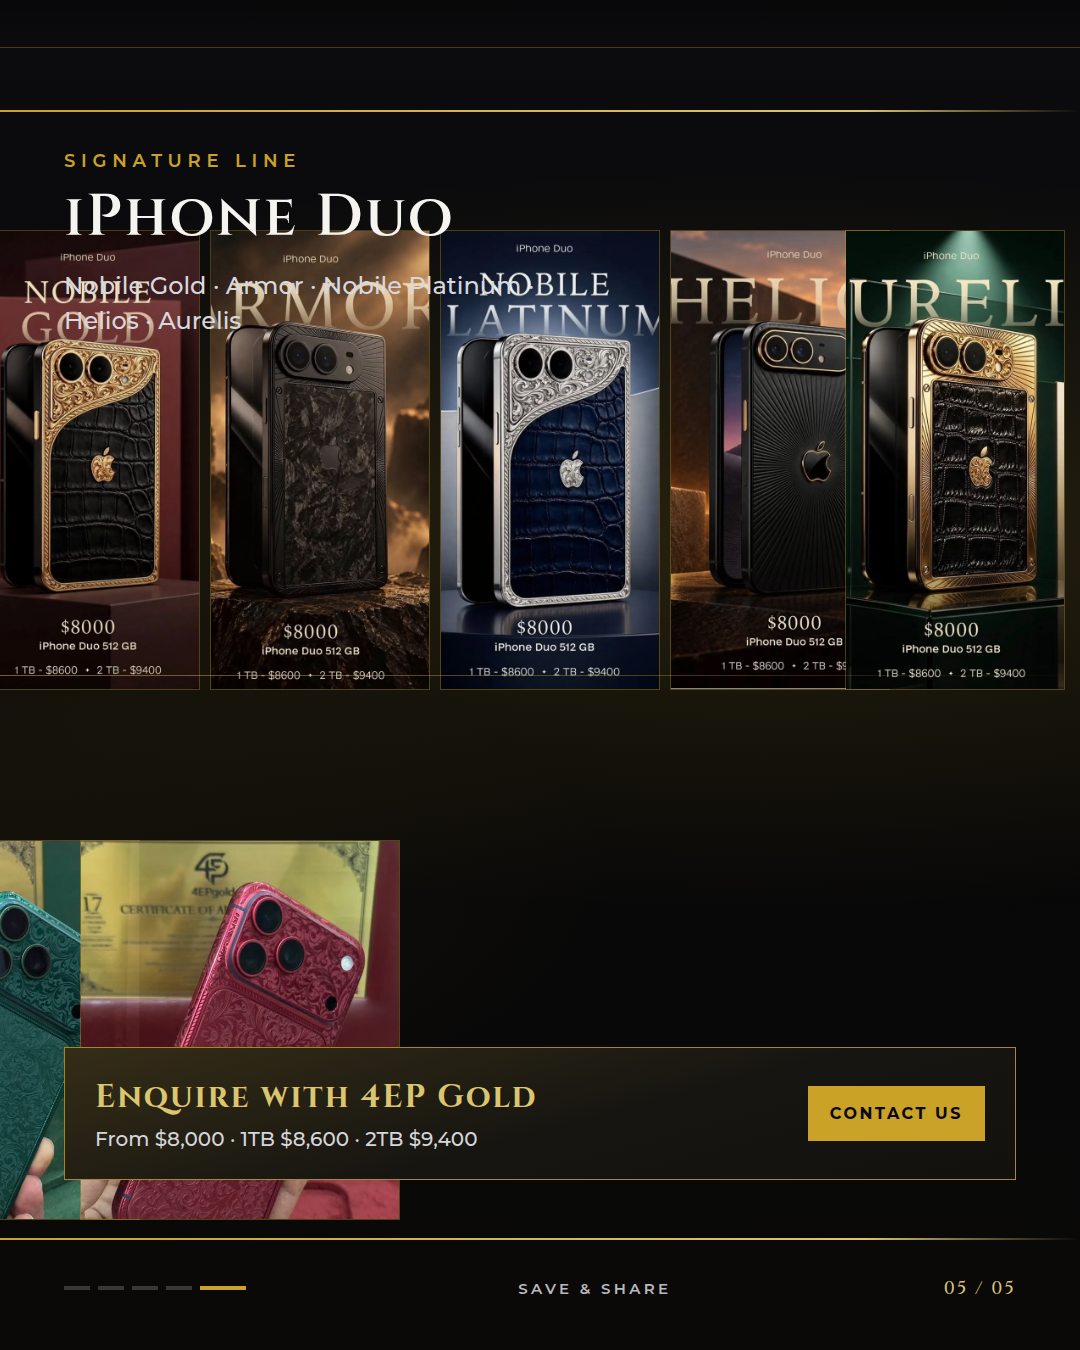
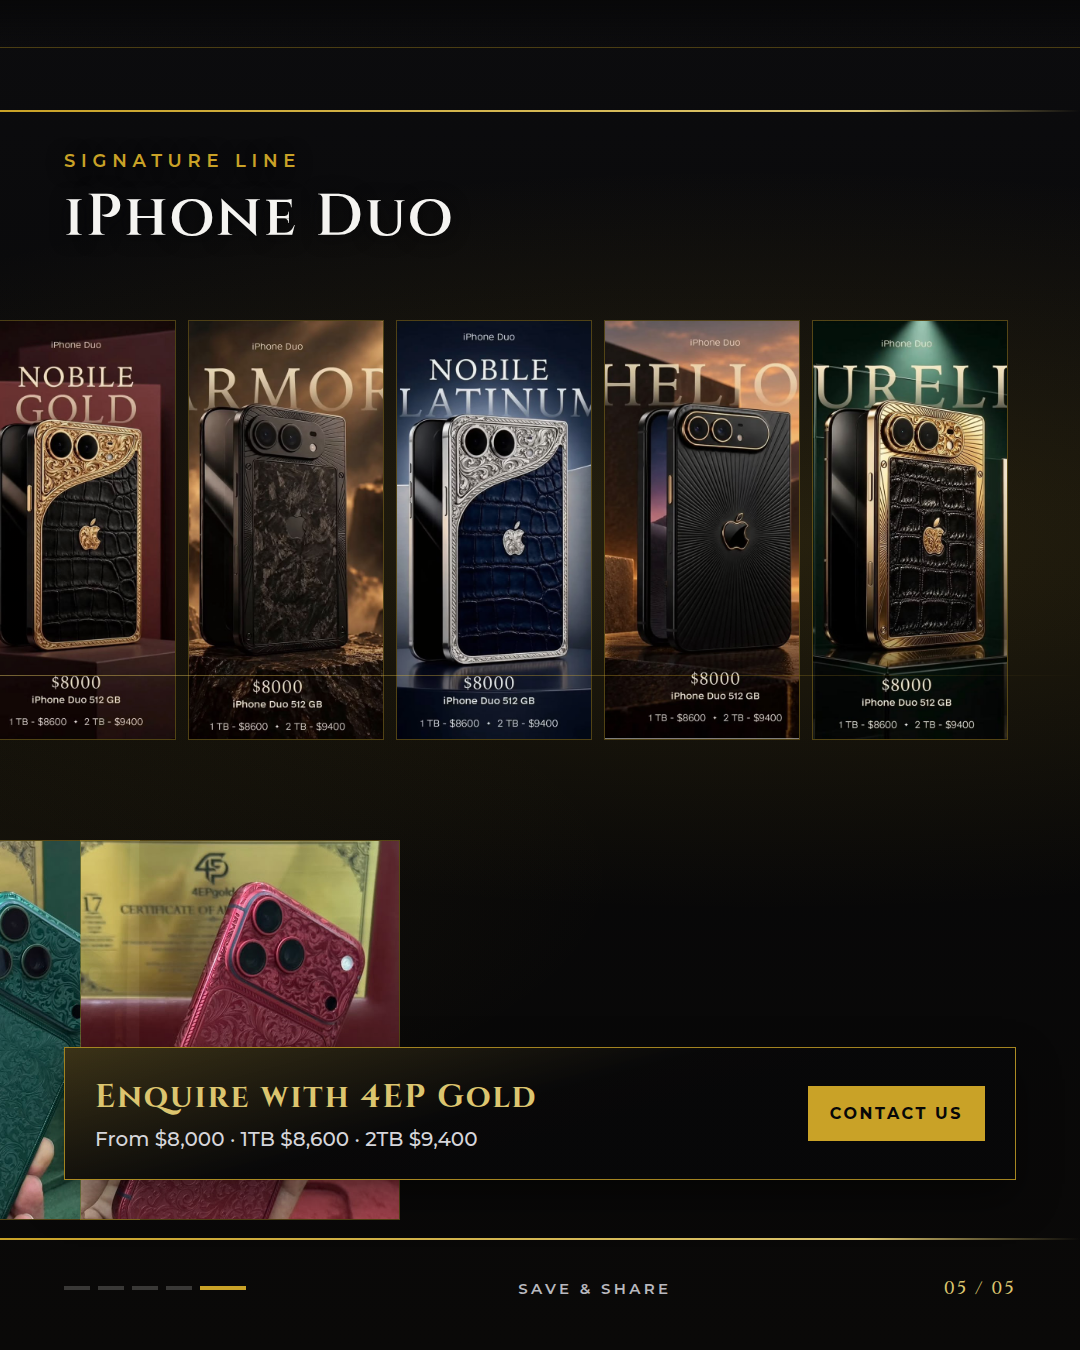
Fix overlapping Duo finish names on Instagram slide 5
Remove the redundant middot finish list that sat on top of the
product cards, and shift the Duo cards below the title so the
Signature Line heading stays clear.

Changed region(s): [[0.0, 0.1556, 1.0, 0.56], [0.0611, 0.8711, 0.3667, 0.9022]]

diff --git a/public/4ep-gold/instagram/slides.html b/public/4ep-gold/instagram/slides.html
@@ -186,20 +186,20 @@
     .river .f-emerald { left: 4140px; }
     .river .f-crimson { left: 4400px; }
 
-    /* Duo cards continue from left of slide 5 */
+    /* Duo cards continue from left of slide 5 — sit below the title */
     .river .duo {
-      top: 230px;
-      width: 220px;
-      height: 460px;
+      top: 320px;
+      width: 196px;
+      height: 420px;
       object-fit: cover;
       object-position: center 42%;
       border: 1px solid rgba(201,162,39,0.35);
     }
     .river .d1 { left: 4300px; }
-    .river .d2 { left: 4530px; }
-    .river .d3 { left: 4760px; }
-    .river .d4 { left: 4990px; }
-    .river .d5 { left: 5165px; opacity: 1; }
+    .river .d2 { left: 4508px; }
+    .river .d3 { left: 4716px; }
+    .river .d4 { left: 4924px; }
+    .river .d5 { left: 5132px; opacity: 1; }
 
     /* Continuous gold path line through middle */
     .flow-path {
@@ -233,6 +233,12 @@
     .p3 { left: calc(var(--w) * 2); }
     .p4 { left: calc(var(--w) * 3); }
     .p5 { left: calc(var(--w) * 4); }
+    .p5 .eyebrow,
+    .p5 .title {
+      position: relative;
+      z-index: 12;
+      text-shadow: 0 2px 18px rgba(7,7,8,0.85);
+    }
 
     .eyebrow {
       font-size: 18px;
@@ -429,21 +435,23 @@
       font-weight: 700;
     }
 
-    /* Slide 5 CTA */
+    /* Slide 5 CTA — clear of Duo cards and finish spillover */
     .cta-box {
       position: absolute;
       left: 64px;
       right: 64px;
       bottom: 170px;
+      z-index: 14;
       border: 1.5px solid rgba(201,162,39,0.8);
       background:
-        linear-gradient(165deg, rgba(201,162,39,0.14), transparent 55%),
-        linear-gradient(165deg, #1c1a14, #12110e);
+        linear-gradient(165deg, rgba(201,162,39,0.18), rgba(7,7,8,0.92) 45%),
+        linear-gradient(165deg, #1c1a14, #0c0c0e);
       padding: 28px 30px;
       display: flex;
       align-items: center;
       justify-content: space-between;
       gap: 20px;
+      box-shadow: 0 18px 40px rgba(0,0,0,0.45);
     }
     .cta-box h3 {
       font-family: var(--display);
@@ -620,7 +628,6 @@
     <section class="panel p5">
       <p class="eyebrow">Signature Line</p>
       <h2 class="title">iPhone Duo</h2>
-      <p class="lede">Nobile Gold · Armor · Nobile Platinum · Helios · Aurelis</p>
       <div class="cta-box">
         <div>
           <h3>Enquire with 4EP Gold</h3>
